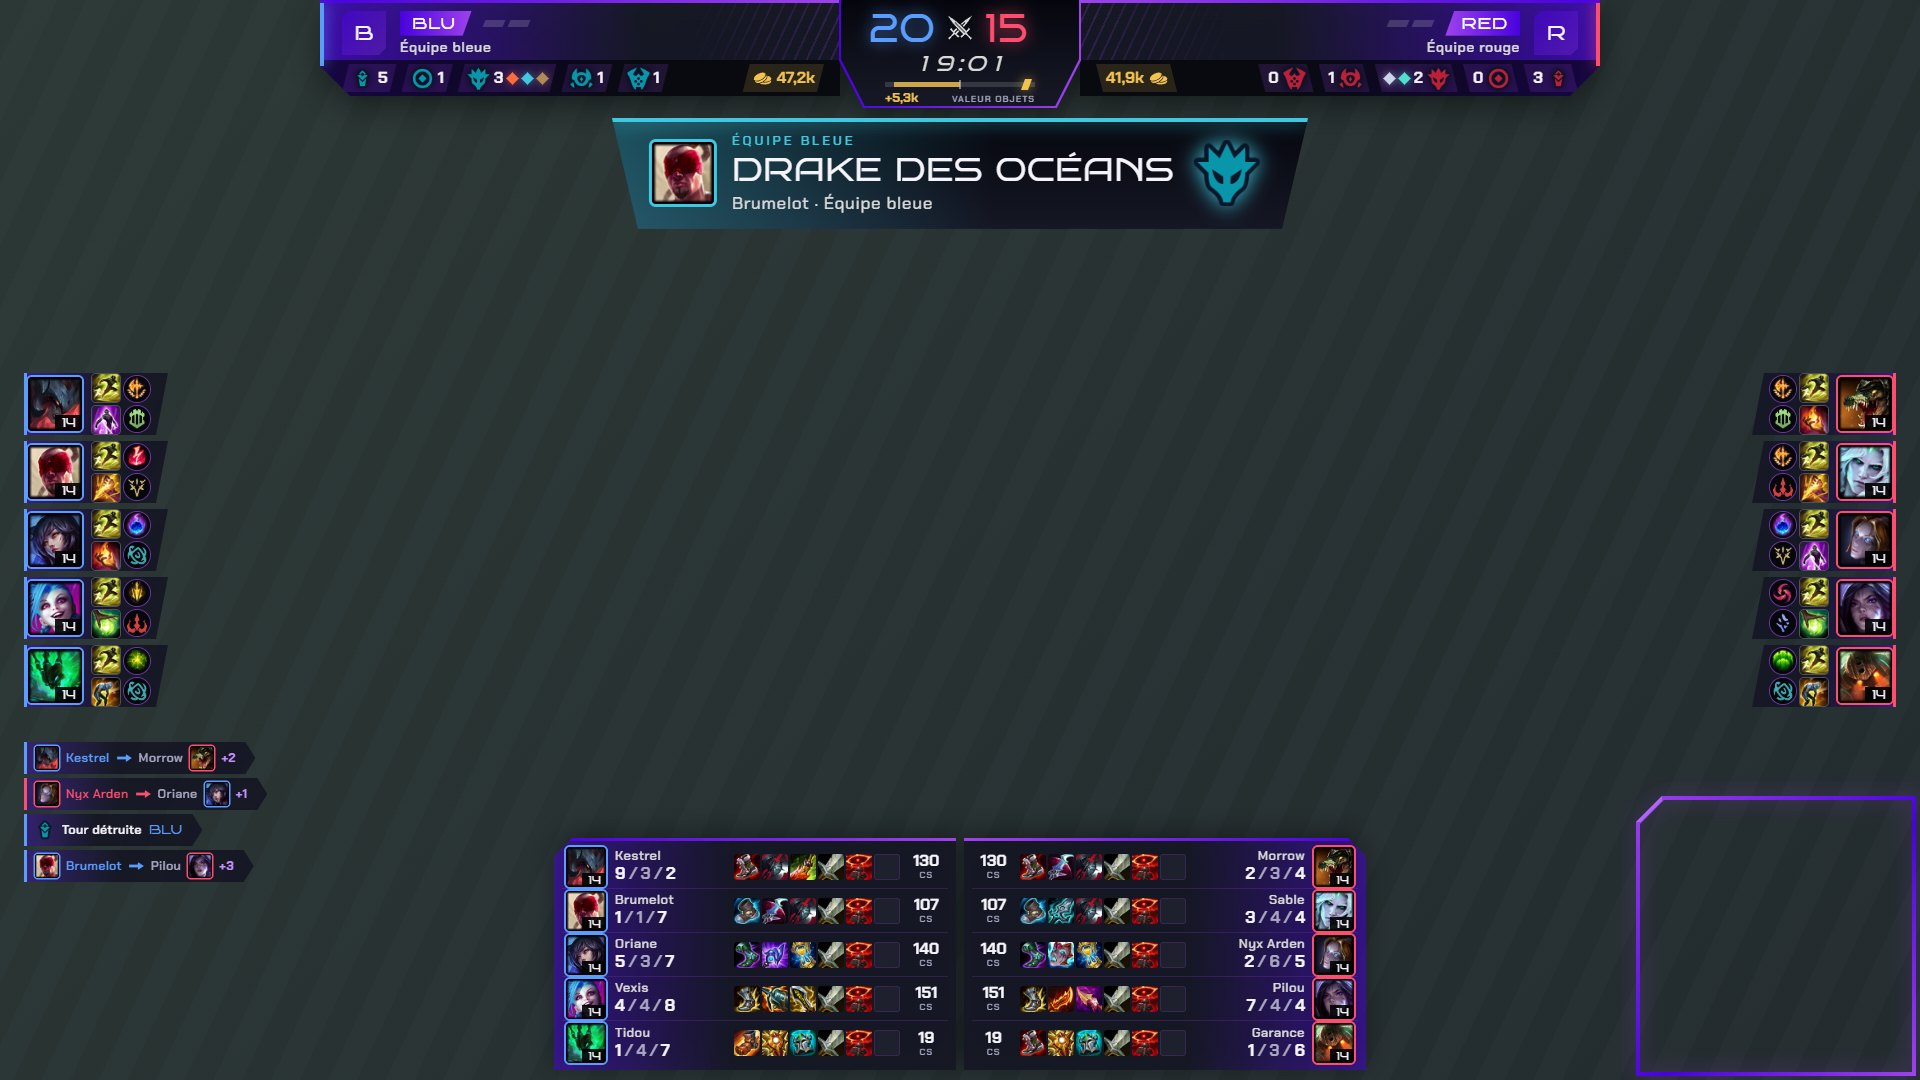
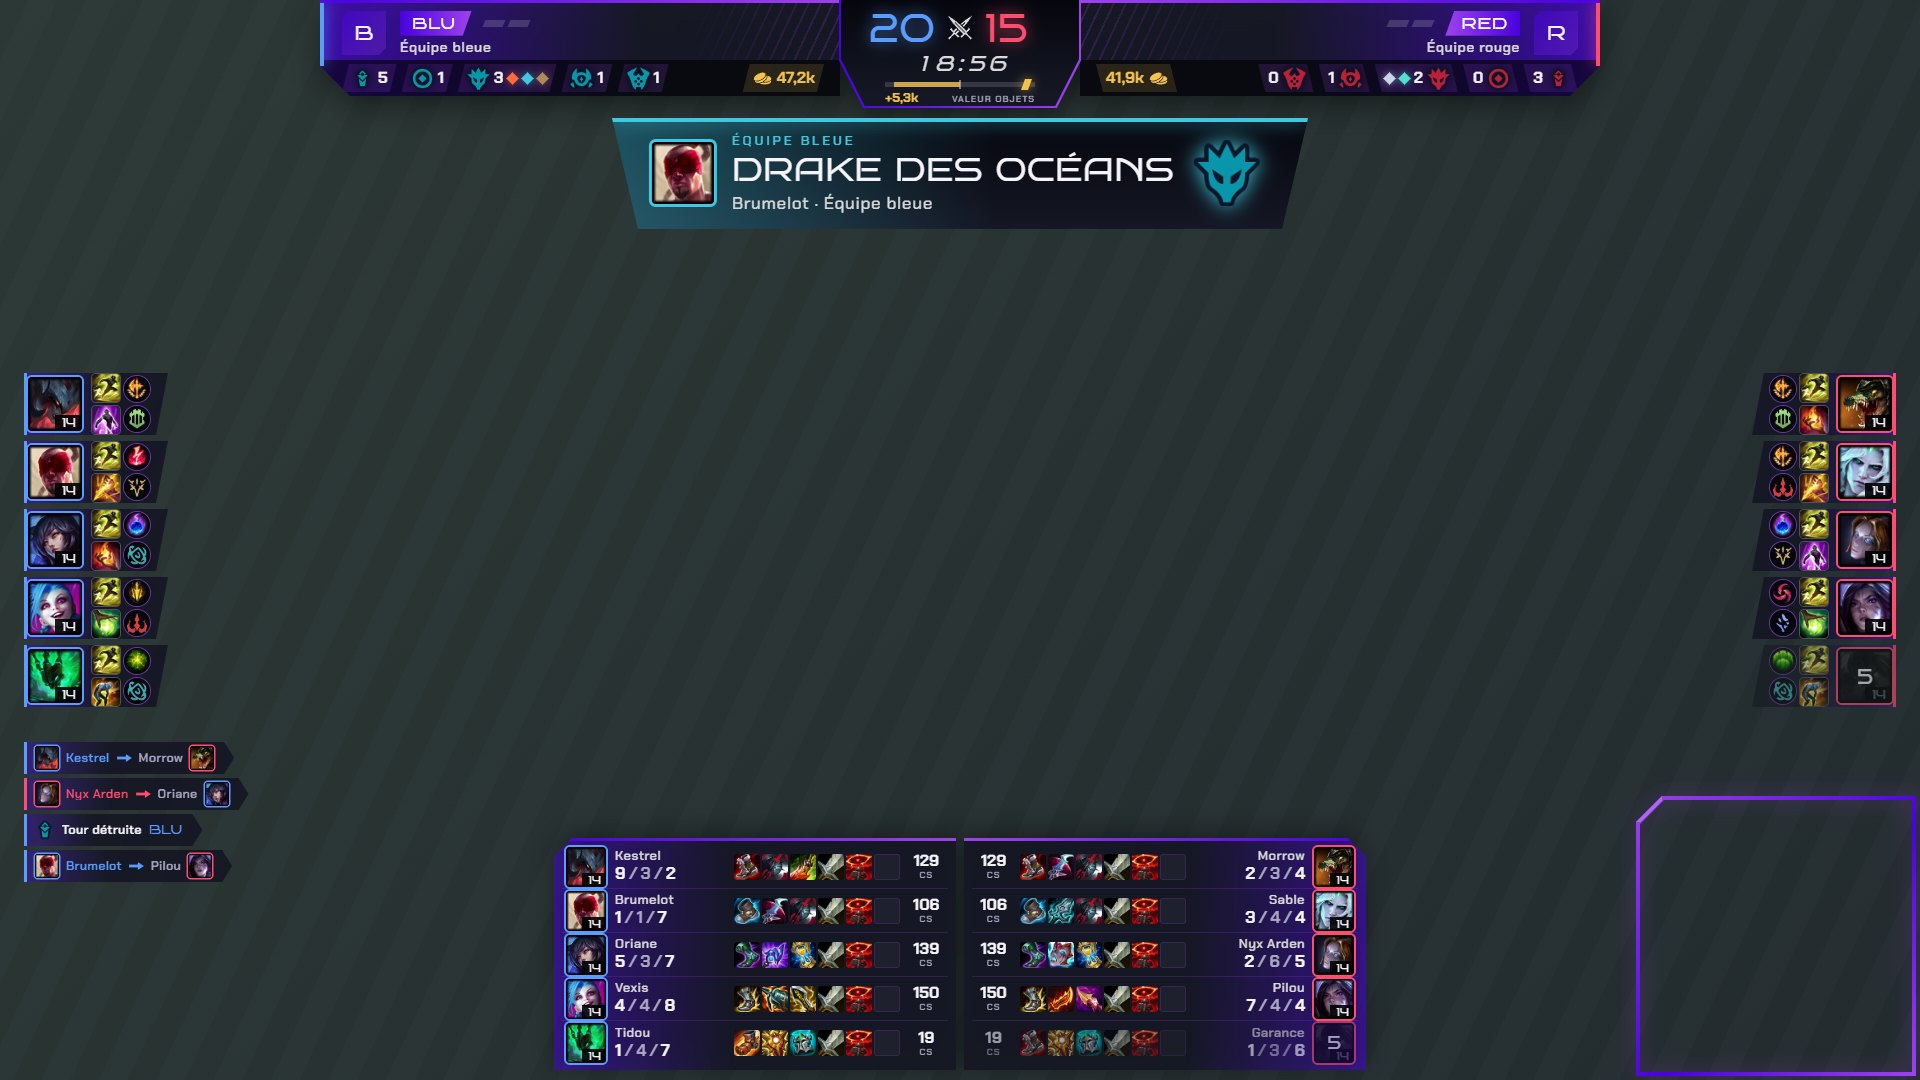
Overlay LoL : le fil des kills n'affiche plus les assistances
Le « +2 », « +1 » ou « +3 » après la victime (nombre d'assistances sur le kill) prêtait à
confusion. Le fil montre maintenant simplement « tueur → victime ». Le nombre d'assistances
reste lu et envoyé par le serveur ; seul l'affichage est retiré, avec la règle de style qui allait
avec. README et capture mis à jour.

diff --git a/public/overlay/overlay.js b/public/overlay/overlay.js
@@ -369,7 +369,6 @@
       row.append(actorIcon(k, side), el('span', 'fn killer', k.name || 'Exécution'));
       row.append(html('span', 'arrow', SVG.arrow));
       row.append(el('span', 'fn victim', v.name || '?'), actorIcon(v, v.team || victimSide));
-      if (ev.assists > 0) row.append(el('span', 'assist', '+' + ev.assists));
     } else {
       row.append(objIcon('tower', side, SVG.tower, 'tw-ico'));
       const t = teamOf(side);

diff --git a/public/overlay/overlay.css b/public/overlay/overlay.css
@@ -686,10 +686,6 @@ body.preview {
   height: 8px;
   fill: var(--c);
 }
-.assist {
-  font: 700 12.5px/1 var(--txt);
-  color: var(--purple-l);
-}
 .frow.tower .fn {
   max-width: none;
   color: var(--text);

diff --git a/README.md b/README.md
@@ -91,7 +91,7 @@ Pas de match sous la main ? Dans l'onglet **Affichage**, « Charger le match d'e
   - De chaque côté : logo, tag, nom et pastilles de série, puis un bandeau avec les tours, inhibiteurs, dragons (losanges colorés selon l'élément, mention « Âme » à 4), hérauts, barons et valeur des objets. Les pictogrammes sont les icônes officielles du client LoL (bleues d'un côté, rouges de l'autre).
 - **Champions sur les côtés** : une colonne par équipe, la bleue à gauche et la rouge à droite, centrées sur la hauteur de l'écran. Chaque ligne montre le portrait du champion avec son niveau, les deux sorts d'invocateur (Saut éclair, Embrasement…) avec leur compte à rebours, et les runes (rune principale et arbre secondaire). Un joueur mort se grise et son temps de réapparition remplace le niveau. Interrupteur « Champions sur les côtés » dans l'onglet Affichage du panneau.
 - **Cadre autour de la minimap** en bas à droite : un liseré angulaire aux couleurs de la charte, dont la taille se règle dans le panneau pour épouser la minimap de votre jeu.
-- **Fil d'actions** : kills (tueur → victime, assistances) et tours détruites, en petit, sous la colonne de gauche.
+- **Fil d'actions** : kills (tueur → victime) et tours détruites, en petit, sous la colonne de gauche.
 - **Bandeaux d'objectifs** sous la barre : dragons (volés ou non), Nashor, Héraut, Atakhan, inhibiteurs, premier sang, triple, quadra et pentakill, ace.
 - **Tableau des joueurs** en bas au centre : deux colonnes de 5 lignes alignées par poste, avec champion, niveau, nom, K/D/A, objets et CS, et le temps de réapparition des joueurs morts. Affiché par défaut en mode spectateur.
 - **Picks et bans** plein écran pendant la sélection des champions : bans barrés, cinq grandes colonnes par équipe avec l'illustration du champion et le nom du joueur, chrono, étape en cours, équipe qui joue et score de la série.
